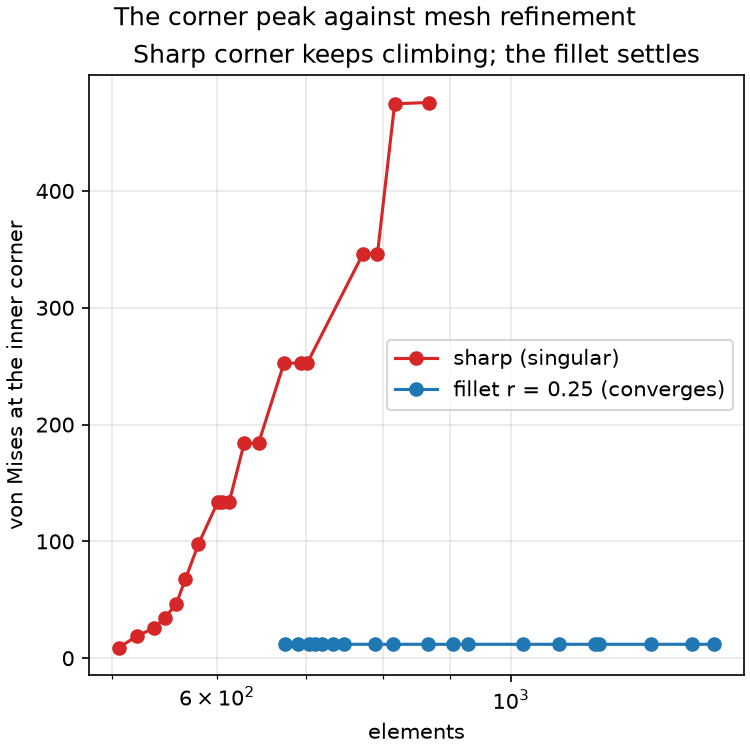
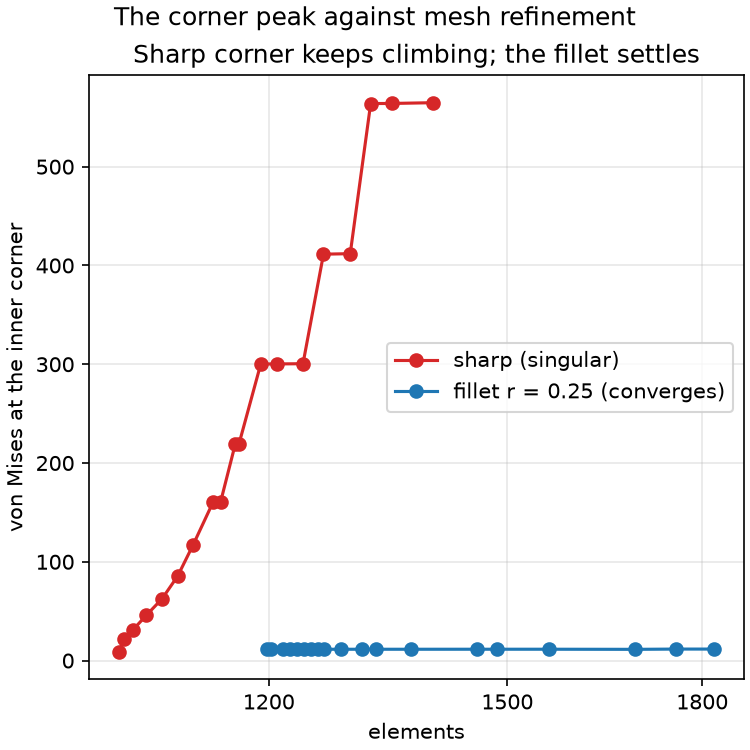
Denser initial bracket mesh, and tidy the sweep's log axis
Halve max_area_fraction (0.003 -> 0.0015) so the initial triangulation is finer and
the von Mises field reads smoother. The denser mesh narrows the element-count range
to under a decade, where the sweep's log x-axis crowds itself with minor labels, so
label a few round values across the range instead (reusing _tidy_log_axis).

Figures regenerated.

diff --git a/examples/solver_demos.py b/examples/solver_demos.py
@@ -655,7 +655,7 @@ def demo_stress_concentration(traction=1.0, length=6.0, height=3.0, radius=0.3,
     )
 
 def demo_bracket(arm=4.0, width=1.2, fillet_radius=0.25, traction=0.4, E=300.0, nu=0.3,
-                 min_angle=28, max_area_fraction=0.003, n_rounds=18, refine_fraction=0.9):
+                 min_angle=28, max_area_fraction=0.0015, n_rounds=18, refine_fraction=0.9):
     """Load an L-bracket and read the stress at its inner corner: a sharp re-entrant
     corner is a stress singularity whose peak climbs without bound as the mesh refines,
     while a fillet gives a finite, converged value. This is why real parts round their
@@ -750,7 +750,15 @@ def demo_bracket(arm=4.0, width=1.2, fillet_radius=0.25, traction=0.4, E=300.0, 
     ax.semilogx(round_sizes, round_peaks, 'o-', color='tab:blue',
                 label=f'fillet r = {fillet_radius:g} (converges)')
     ax.set_title('Sharp corner keeps climbing; the fillet settles')
+    # The element counts span well under a decade, where a log axis crowds itself with
+    # minor labels (1.1x10^3, 1.2x10^3, ...); label a few round values across the range.
     ax.grid(True, which='both', alpha=0.3)
+    sizes_all = np.concatenate([sharp_sizes, round_sizes])
+    mantissas = np.array([1, 1.2, 1.5, 1.8, 2, 2.5, 3, 4, 5, 7])
+    nice = np.concatenate([mantissas * 10**k for k in (2, 3, 4)])
+    ticks = nice[(nice >= sizes_all.min()) & (nice <= sizes_all.max())]
+    if len(ticks) >= 2:
+        _tidy_log_axis(ax, ticks)
     ax.legend()
 
     reduction = 100 * (1 - round_peaks[-1] / sharp_peaks[-1])
